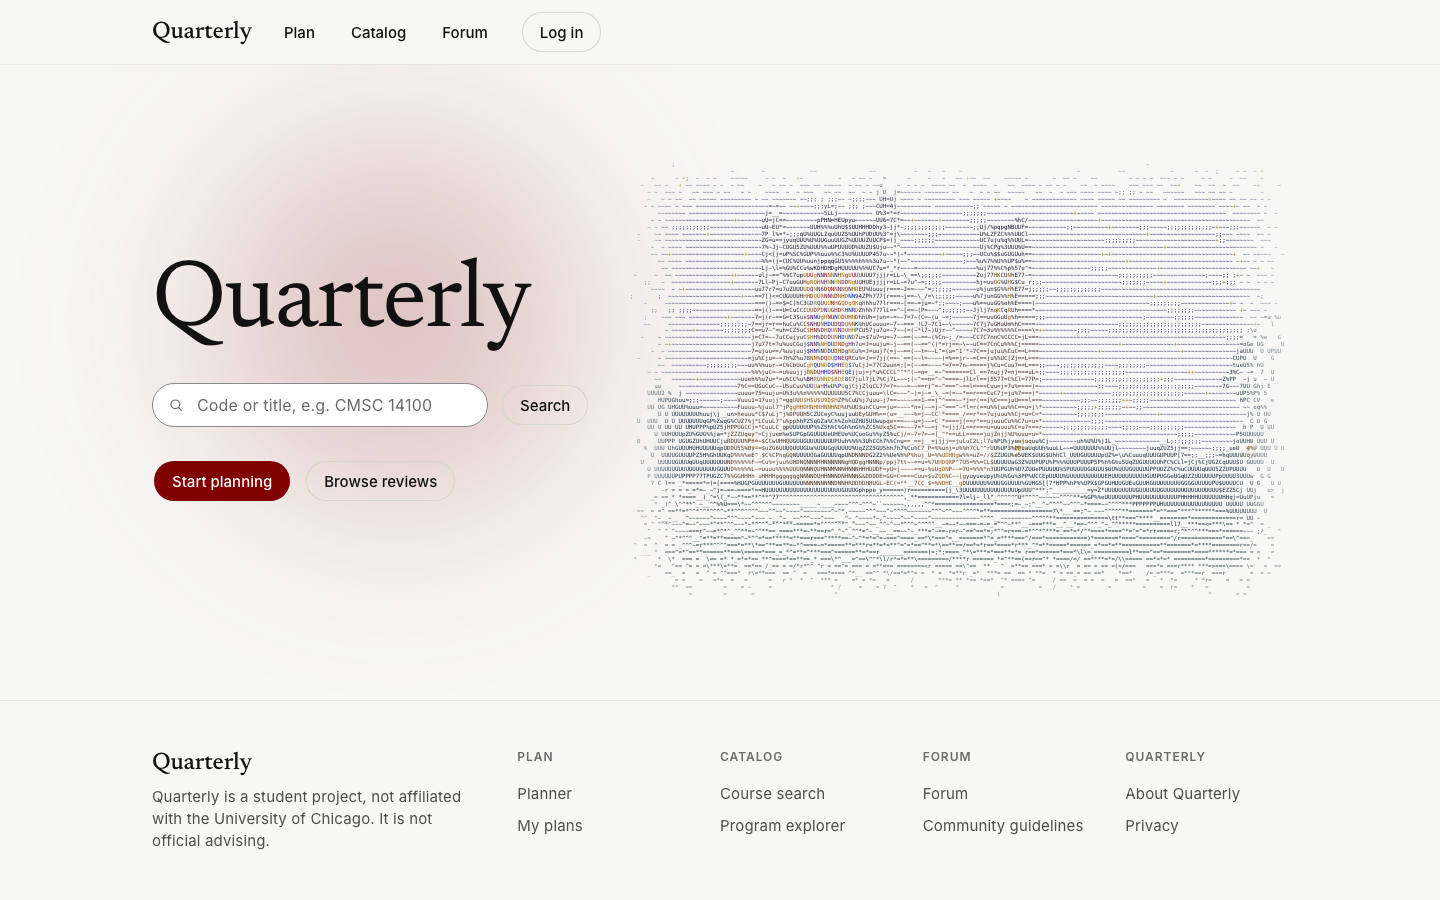
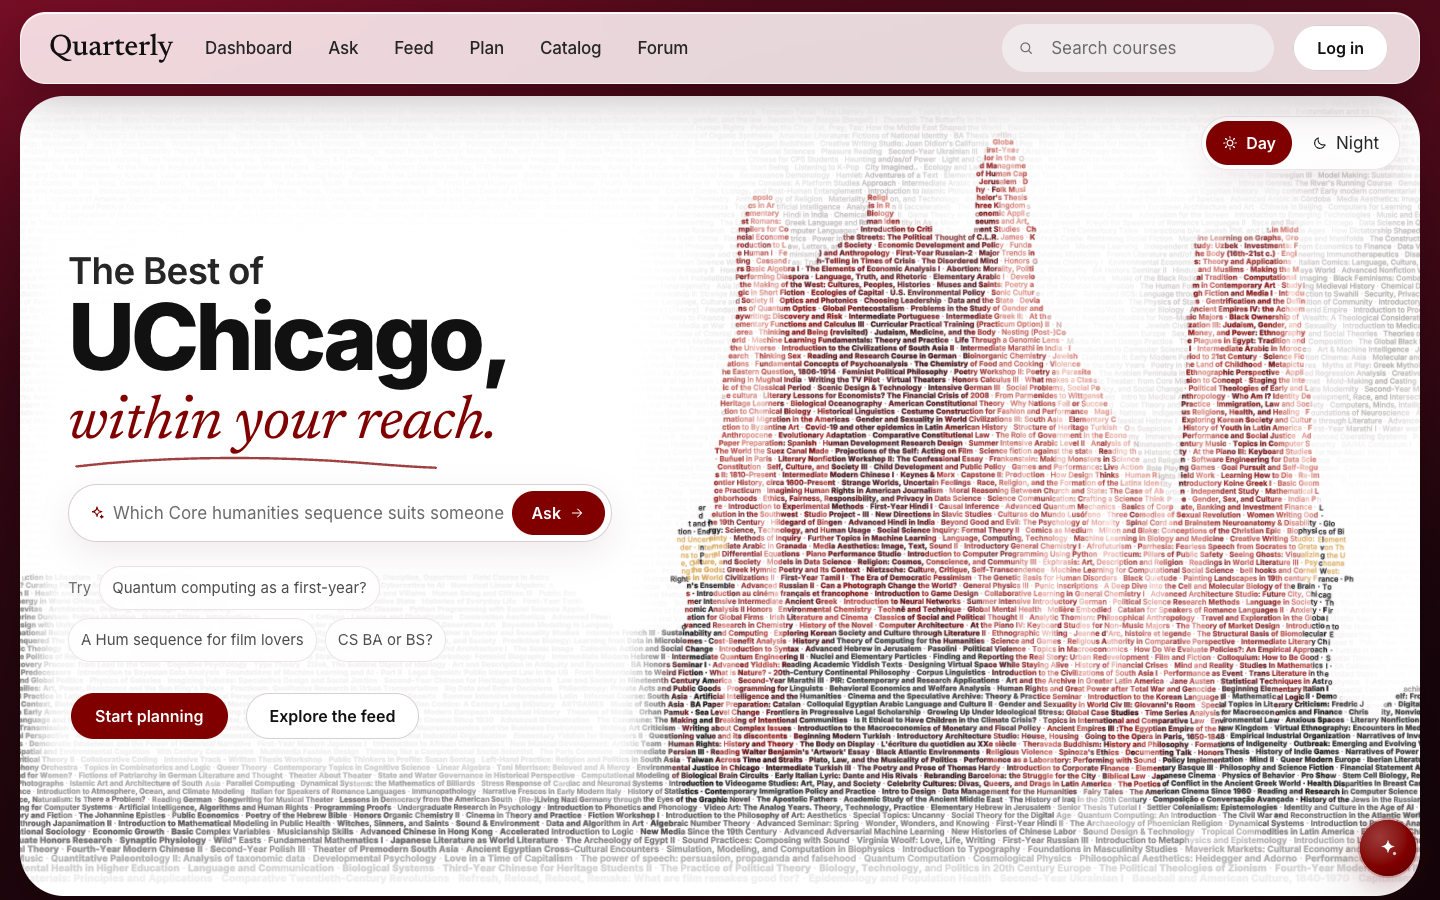
README: the campus companion, the new homepage and the full catalog
Per review on #10: the tagline and title of the new homepage; what Ask, the companion, the
dashboard (guide and routes), the feed and the Commons do; new screenshots from the running app
(home by day and night, dashboard, Ask, the Commons, the feed); the catalog's 11,301 courses;
make seed-commons-demo; AI limits and the gateway setting; the new docs and data folders; privacy
for the new features.

diff --git a/README.md b/README.md
@@ -1,37 +1,47 @@
 <h1 align="center">Quarterly</h1>
 
-<p align="center"><strong>Plan four years at UChicago with plans a verifier proves, and read what students say about each course and instructor.</strong></p>
+<p align="center"><strong>The Best of UChicago, within your reach.</strong> Ask anything about the College, plan four years with plans a verifier proves, and see what students say about every course.</p>
 
 <p align="center">
-  <img src="docs/screenshots/readme/home.png" alt="The Quarterly home page: the Quarterly wordmark, a course search, Start planning and Browse reviews, beside an animated ASCII drawing of Rockefeller Chapel" width="900">
+  <img src="docs/screenshots/readme/home.png" alt="The Quarterly home page by day: the title “The Best of UChicago, within your reach.”, a question bar with an Ask button, example questions, Start planning and Explore the feed, beside Rockefeller Chapel drawn with the titles of real courses in maroon, flanked by two street lamps" width="900">
 </p>
 
 <p align="center"><em>A student project. Not affiliated with the University of Chicago, and not official advising.</em></p>
 
 ## What Quarterly does
 
-Quarterly has two halves of equal weight that share one course database.
+Quarterly has two halves of equal weight that share one course database, and a campus companion around them.
 
 - **Quarterly Planner** takes a student from "I don't know my first class" to a full, goal-aware four-year plan. An AI agent proposes plans; a deterministic verifier checks every requirement and prerequisite and issues a certificate. A plan is only called "Valid" when that certificate is accepted.
-- **Quarterly Forum** gives every course × instructor pair its own page with anonymous, Reddit-style threads and structured ratings. The ratings feed each course's workload and difficulty, which the planner uses.
+- **Quarterly Forum** has two parts. The **Commons** (`/forum`) is for questions about any course: the AI answers first, with its sources, then students answer, comment, vote and accept the best reply. **Course reviews** (`/instructors`) give every course × instructor pair its own page with anonymous threads and structured ratings; the ratings feed each course's workload and difficulty, which the planner uses.
+- **The campus companion:**
+  - **Ask** (`/ask`) is a UChicago chatbot. The homepage's question bar leads to it. It looks things up in the catalog, the programs, the forum and a campus guide, shows its sources, and links every course it names.
+  - **The companion** is a button on every page. It knows the page you are on and, when you are logged in, your dashboard, and it lists new forum posts, comments and reviews for you.
+  - **Your dashboard** (`/me`) holds your class year, interests, research areas, humanities goals, career plans and the fields you are heading toward. An interviewing guide helps you fill it in and remembers you next time. **Routes** are AI-drafted four-year pathways; choose one, or keep them all open.
+  - **The feed** (`/feed`) is a personalised stream of course spotlights with generated illustrations, related books, student comments and word clouds, in the categories you choose.
 
-The rule behind it: **agents propose, code disposes.** AI drafts plans, summaries and changes; code decides what is true; a student's explicit action applies a change.
+The rule behind it: **agents propose, code disposes.** AI drafts plans, summaries, answers and routes; code decides what is true (every course an AI names is checked against the catalog); a student's explicit action applies a change.
 
-| Planner | Generate a plan |
+| Homepage at night | Your dashboard |
 |---|---|
-| ![The planner: a four-year grid with course cards, the plan's verdict beside its name, and requirement colours](docs/screenshots/readme/planner.png) | ![The Generate plan popup: two options, each with its verifier badge, hours and the quarters it changes](docs/screenshots/readme/generate.png) |
-| **Course page** | **Forum** |
-| ![A course page: student ratings, instructors, prerequisites, predicted quarters and the planner's estimates](docs/screenshots/readme/course.png) | ![A course × instructor forum page: ratings, an AI summary slot and reviews](docs/screenshots/readme/forum.png) |
+| ![The homepage at night: the same chapel of course titles under a dark lettered sky with a moon, snow falling as bright letters and the two street lamps glowing orange](docs/screenshots/readme/home-night.png) | ![The dashboard: a grid of panels with the student's name, class year and portrait at top left, the guide at top right, then interests, research areas and what's new](docs/screenshots/readme/dashboard.png) |
+| **Ask Quarterly** | **The Commons** |
+| ![The Ask page: “Ask anything about UChicago.”, a question box and example questions, beside an art panel of course titles](docs/screenshots/readme/ask.png) | ![A Commons question about CMSC 14100 with the AI's answer below it, every course code a link](docs/screenshots/readme/commons.png) |
+| **The feed** | **Planner** |
+| ![The feed: an AI headline “Today's river: …” above illustrated course cards, with a ticker of course titles](docs/screenshots/readme/feed.png) | ![The planner: a four-year grid with course cards, the plan's verdict beside its name, and requirement colours](docs/screenshots/readme/planner.png) |
 
-Every page at 1440 and 390 px wide is in [`docs/screenshots/after/`](docs/screenshots/after/) (the same pages before the latest design pass are in [`before/`](docs/screenshots/before/)). Screenshots use the app's mock data.
+The homepage has a **Day / Night** switch. Rockefeller Chapel is drawn with the titles of 1,600 real courses (point at a title to see it, click to open it). At night the same letters paint a dark sky, falling snow and the street lamps' orange light.
+
+The screenshots above come from the running app with a demo account; the email shown is replaced. Earlier screenshots of every page at 1440 and 390 px wide, taken before the campus companion and the latest redesign, are in [`docs/screenshots/after/`](docs/screenshots/after/) (with mock data).
 
 ## Status (November 2026)
 
 A working demo, used by its owner and a few testers; a public launch comes after the catalog hand check.
 
-- **Catalog:** 2026-27, about 1,270 courses and 11 programs (the Core; Computer Science BA, BS and three Bx/MS options; Mathematics BA and BS; Economics BA; two study-abroad civilization blocks) hand-copied from the College Catalog with verbatim source quotes, plus 152 Summer Session offerings.
-- **Built:** onboarding, the four-year planner with drag and drop, live verifier and certificate checker, plan generator (OR-Tools CP-SAT), "Ask Quarterly" advisor chat, course search, course and program pages, the course × instructor forum, anonymous accounts, curator console, the animated homepage chapel.
-- **AI:** off unless `LLM_LIVE=true` and a key are set (see below). Tests always use fake AI.
+- **Catalog:** 2026-27, 11,301 courses (about 1,270 hand-checked, with structured prerequisites; the rest imported from the College Catalog with verbatim source quotes and marked for review) and 11 programs (the Core; Computer Science BA, BS and three Bx/MS options; Mathematics BA and BS; Economics BA; two study-abroad civilization blocks), plus 152 Summer Session offerings. Every course opens its own page.
+- **Built:** onboarding, the four-year planner with drag and drop, live verifier and certificate checker, plan generator (OR-Tools CP-SAT), the planner's advisor chat, course search, course and program pages, course × instructor reviews, anonymous accounts, curator console with moderation, and the homepage chapel drawn in course titles (day and night).
+- **Campus companion** (branch `feature/best-of-uchicago`, see [`docs/BEST-OF-UCHICAGO-PLAN.md`](docs/BEST-OF-UCHICAGO-PLAN.md)): Ask, the companion, the dashboard with its guide and routes, the feed and the Commons. Decisions for the owner are in `docs/OPEN_QUESTIONS.md` CC-1 to CC-8; the campus guide (`data/campus/guide.yaml`) and the feed's book shelf (`data/feed/books.yaml`) must be hand-checked before launch.
+- **AI:** off unless `LLM_LIVE=true` and a key are set (see below). Every AI feature has a version that works without it, and tests always use fake AI.
 - **Open work:** `docs/FEEDBACK.md` (requests and their status), `docs/OPEN_QUESTIONS.md` (decisions waiting for the owner), `docs/PROGRESS.md` (what was built and when).
 
 ## Quick start
@@ -43,11 +53,12 @@ make install               # Python packages (uv) and the web app's node modules
 make up                    # creates .env from .env.example, starts db, redis, minio, api, worker, web
 make migrate && make seed  # database schema, then the 2026-27 catalog from data/seed/
 make seed-forum-demo       # optional: fake instructors and forum pages for development
+make seed-commons-demo     # optional: demo questions in the Commons (development only)
 ```
 
 Open <http://localhost:5173> (the API is on <http://localhost:8000>). `make down` stops the stack and keeps its data.
 
-**Turning the AI on.** In `.env`, set `ANTHROPIC_API_KEY` (and optionally `OPENROUTER_API_KEY` as the fallback) and `LLM_LIVE=true`, then `make up` again. Model choices, limits and prices live only in [`llm_routing.yaml`](llm_routing.yaml). Logged-out visitors get 3 plan generations a day per address (10 for an account), so a test run on the same machine shares that allowance; the end-to-end journeys clear the counters when they finish.
+**Turning the AI on.** In `.env`, set `ANTHROPIC_API_KEY` (and optionally `OPENROUTER_API_KEY` as the fallback) and `LLM_LIVE=true`, then `make up` again. Model choices, limits and prices live only in [`llm_routing.yaml`](llm_routing.yaml). If you use a gateway instead of Anthropic's API, set `ANTHROPIC_BASE_URL` in `.env`; a value already exported in your shell overrides it, so unset it when running the API outside Docker. Every AI feature has a daily limit per account and per address: logged-out visitors get 3 plan generations a day per address (10 for an account), 40 Ask questions (80 for an account), and so on. A test run on the same machine shares those allowances; the end-to-end journeys clear the counters when they finish.
 
 ## Development
 
@@ -66,16 +77,16 @@ CI (`.github/workflows/ci.yml`) runs `make install && make check` on every push 
 | Path | What it is |
 |---|---|
 | `apps/web/` | React + TypeScript (Vite, Tailwind v4, TanStack Query, dnd-kit). `e2e/` browser tests on mock data (MSW), `e2e-stack/` journeys on the real stack. |
-| `services/api/` | FastAPI app: routers, database models (SQLAlchemy, Alembic), the seed loader, agent orchestration. |
+| `services/api/` | FastAPI app: routers, database models (SQLAlchemy, Alembic), the seed loader, agent orchestration (`api/agents/`: the planner's agents and the campus companion's Ask, guide, routes, feed notes and Commons bot), the Commons (`api/commons/`) and the feed (`api/feed/`). |
 | `services/worker/` | Arq background jobs: nightly course attributes, catalog ingestion, the schedule watch, chat purge and the hourly AI spend check. |
 | `services/scraper/` | Playwright scraper for the class schedule; `SCHEDULE_SCRAPER_ENABLED=false` until the University allows scraping. |
 | `packages/planner_core/` | The requirements DSL, verifier, certificate checker and CP-SAT plan generator. Pure Python: no database, web framework, HTTP or LLM client. |
 | `packages/llm_gateway/` | The only way code talks to a model: routing, budgets, provider fallback, fakes for tests. |
-| `data/seed/2026-27/` | Hand-checked catalog YAML with a source quote for every rule. `data/golden/` holds plans that must pass or fail. |
+| `data/seed/2026-27/` | Catalog YAML with a source quote for every rule (the crawl import, `zz_crawl_import.yaml`, is marked for review). `data/golden/` holds plans that must pass or fail. `data/campus/` and `data/feed/` hold the campus guide and the feed's book shelf. |
 | `prompts/` | Versioned prompts for the app's own agents. |
 | `evals/` | Agent evaluations and the recorded live test (`evals/live/`). |
 | `docs/` | Spec, design system, decisions, progress and review documents (map below). |
-| `tools/ascii-scene/` | The converter and docs behind the homepage chapel drawing (not deployed). |
+| `tools/course-chapel/` | Builds the homepage chapel's data (`apps/web/public/home/course-chapel.json`) from the drawing and the seed's course titles (not deployed). `tools/ascii-scene/` is the converter behind the drawing. |
 | `claude-code-prompts/` | The prompts the project was built from, in order (history; `docs/` is the current truth). |
 
 ## Documentation map
@@ -84,6 +95,7 @@ CI (`.github/workflows/ci.yml`) runs `make install && make check` on every push 
 |---|---|
 | [`CLAUDE.md`](CLAUDE.md) | Start here if you are an AI coding agent: rules, commands and where everything is. |
 | [`docs/SPEC.md`](docs/SPEC.md) | The product and technical spec; [`docs/SPEC-CHANGES.md`](docs/SPEC-CHANGES.md) lists every change since. |
+| [`docs/BEST-OF-UCHICAGO-PLAN.md`](docs/BEST-OF-UCHICAGO-PLAN.md) | The campus companion: what was asked, the data model, the API and the pages. |
 | [`PRODUCT.md`](PRODUCT.md) | Users, purpose, positioning and product principles. |
 | [`docs/DESIGN.md`](docs/DESIGN.md) | The visual design system (colours, type, components, motion). |
 | [`docs/CONTRACTS.md`](docs/CONTRACTS.md) | API endpoints and the decisions behind them. |
@@ -96,4 +108,4 @@ CI (`.github/workflows/ci.yml`) runs `make install && make check` on every push 
 
 ## Privacy
 
-Accounts are anonymous: forum posts show a different pseudonym on every page. An email address is stored only in the account record and never logged; no IP addresses are logged; user dates are day-level only. Nothing a visitor's browser loads comes from another site (fonts, icons, images and the homepage weather are served by Quarterly).
+Accounts are anonymous: forum posts show a different pseudonym on every page, and Commons posts a different handle on every question. An email address is stored only in the account record and never logged; the dashboard reads it from there and never copies it. No IP addresses are logged; user dates are day-level only. Account export includes the dashboard, routes and Commons posts, and deleting an account removes them. Ask and companion conversations stay in the browser and are cleared on logout. Nothing a visitor's browser loads comes from another site (fonts, icons and images, including the feed's illustrations and book covers, are made or served by Quarterly).
